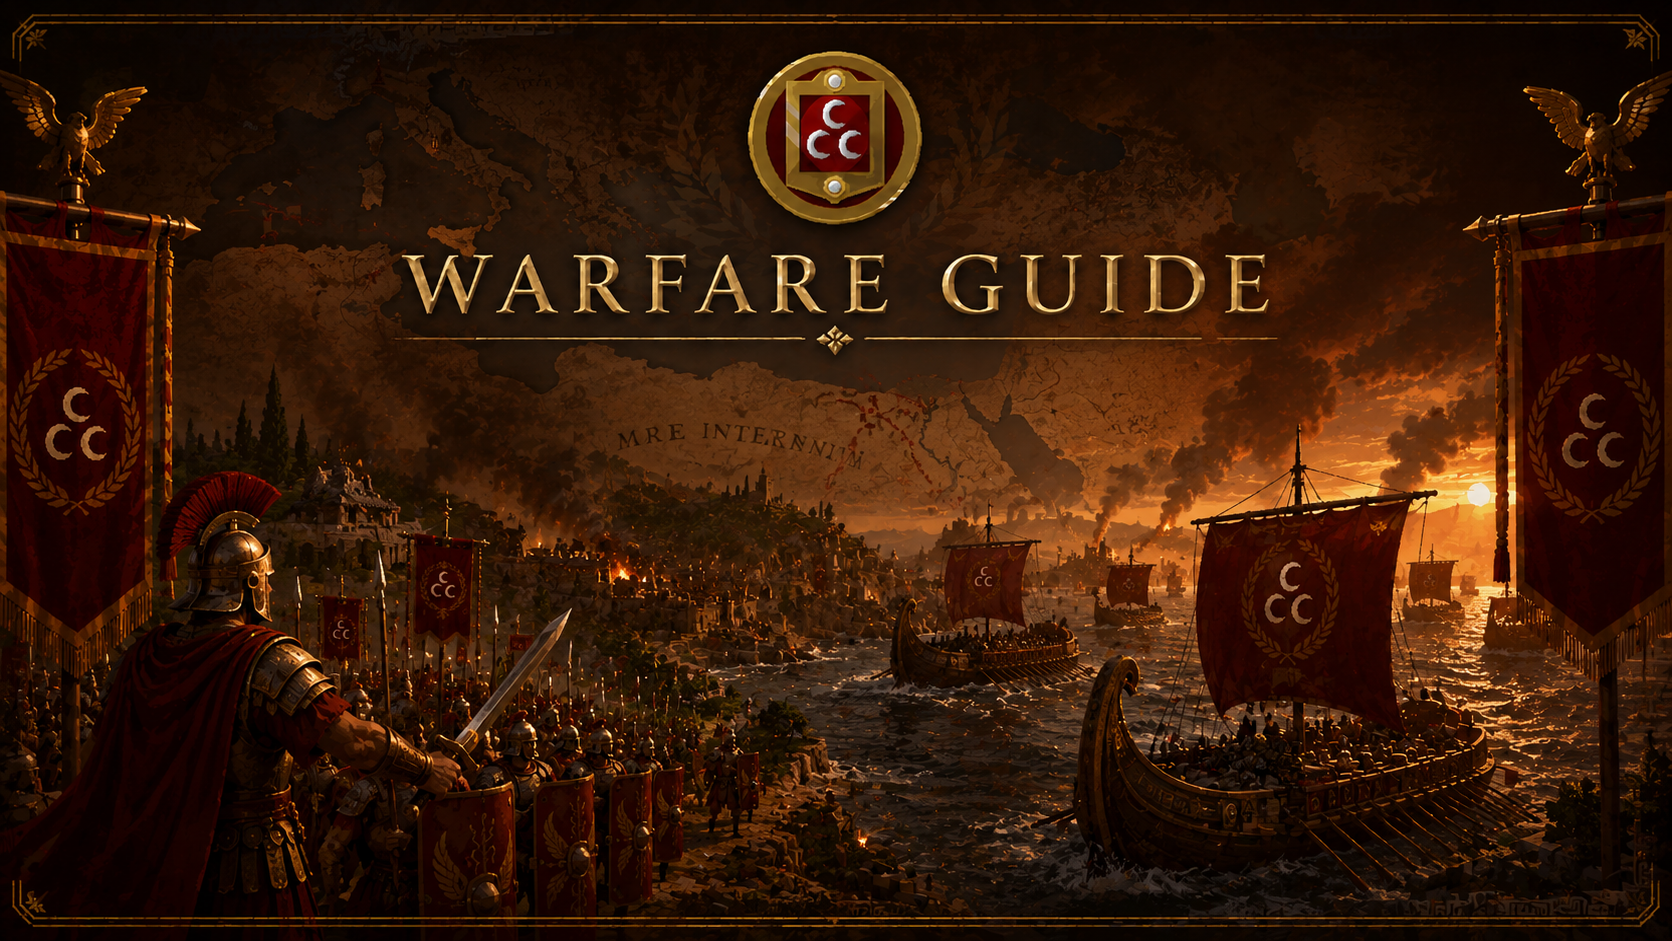
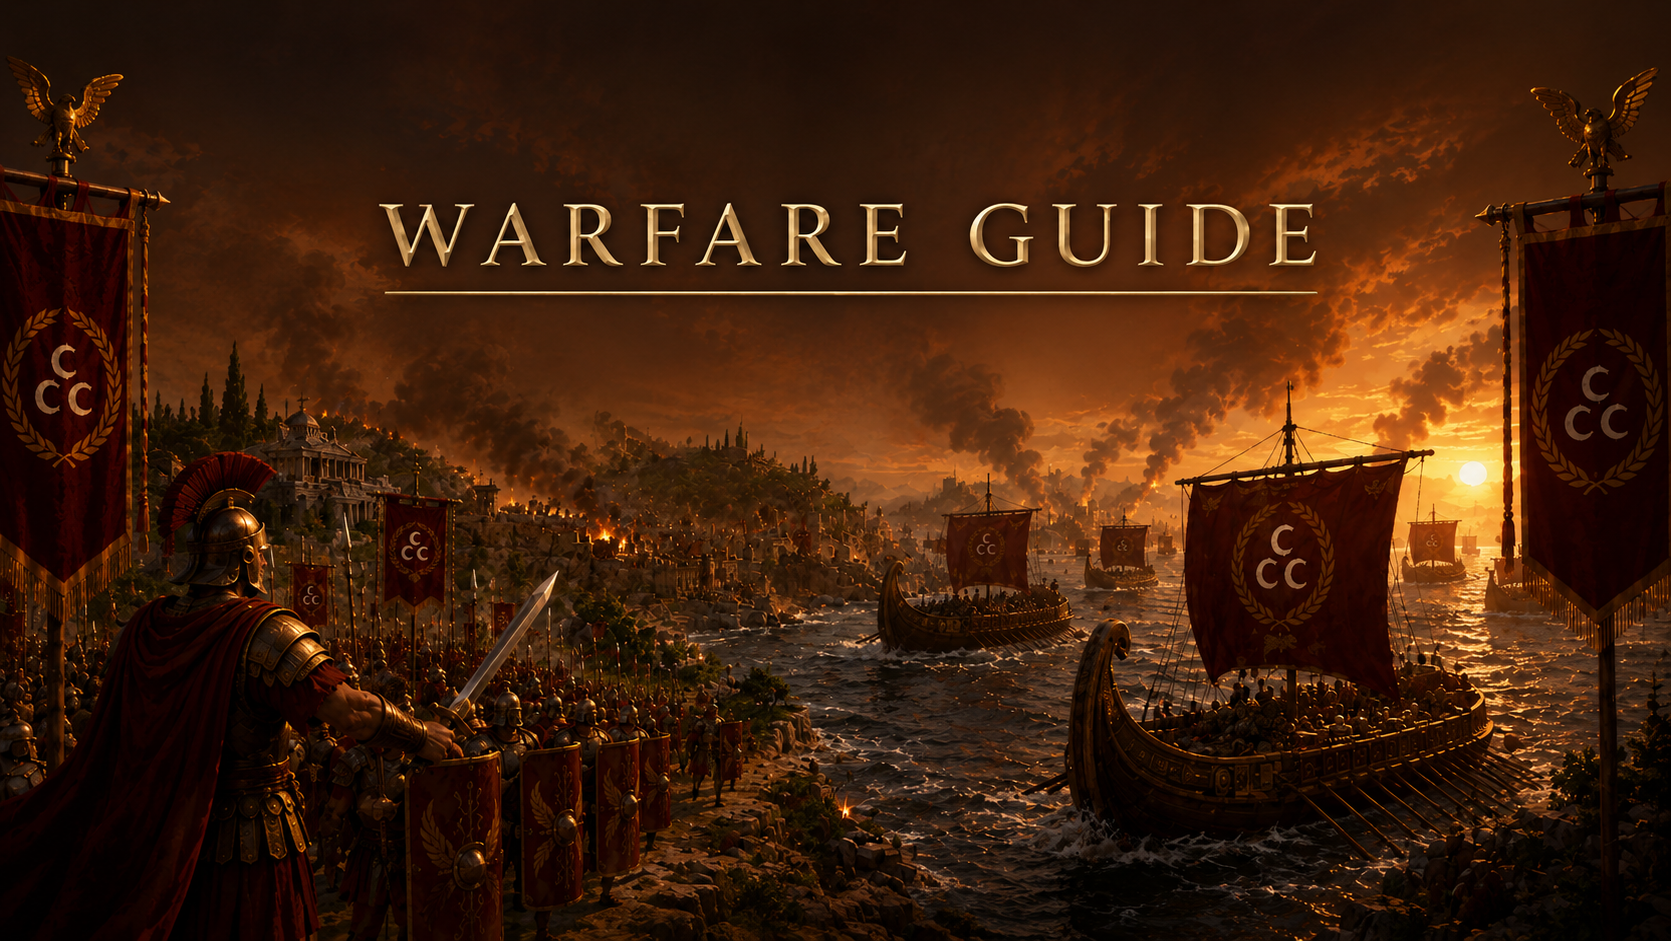
Updated Page

diff --git a/index.html b/index.html
@@ -14,7 +14,7 @@
   <aside class="sidebar">
     <img src="logo.png" class="side-logo" alt="ROTO Rome Logo">
     <h2>ROTO - Rome</h2>
-    <p>Rules & Guides</p>
+    <p>Information</p>
 
     <nav>
       <a href="#overview">Overview</a>
@@ -37,24 +37,11 @@
       <div class="hero-text-box">
         <span class="eyebrow">Official Server Hub</span>
         <h1>ROTO - Rome</h1>
-        <p>
-          The official rulebook and guide hub for the ROTO - Rome Minecraft server.
-          This page separates actual server rules from nation mechanics and warfare systems
-          so players can find what they need quickly.
-        </p>
-        <p class="credit">Written by Puredoom & ItzYaBoiRampage</p>
+        <p>Rules, nation mechanics, warfare systems, and server information.</p>
       </div>
     </section>
 
-    <img src="hero.png" class="wide-banner" alt="ROTO Rome Hero Banner">
-
-    <section class="card" id="rules">
-      <h2>Server Rules</h2>
-      <p>
-        These are the actual rules players are expected to follow. Breaking these rules may result in
-        warnings, item removal, temporary bans, permanent bans, or other staff action depending on severity.
-      </p>
-    </section>
+    <img src="rules.png" class="wide-banner" id="rules" alt="Server Rules Banner">
 
     <section class="card" id="conduct">
       <h2>Community Conduct</h2>
@@ -135,15 +122,11 @@
 
     <section class="card" id="nation">
       <h2>Nation Guide</h2>
-      <p>
-        This section explains settlement requirements, building tiers, resource structures, and economy rewards.
-        These are server mechanics, not conduct rules, but they are still required for capitals and settlements to qualify.
-      </p>
+      <p>Capital requirements, building tiers, resource structures, and economy rewards.</p>
 
       <h3>Build Quality & Multipliers</h3>
       <p>
-        Builds are judged by size, detail, realism, and effort. Structures must reasonably resemble their intended purpose
-        and fit the server’s historical theme. Staff have final say on structure eligibility.
+        Builds are judged by size, detail, realism, and effort. Structures must resemble their intended purpose and fit the server's historical theme.
       </p>
 
       <div class="tiers">